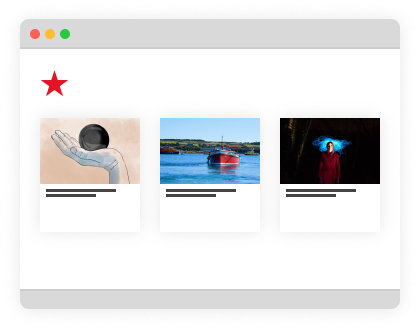
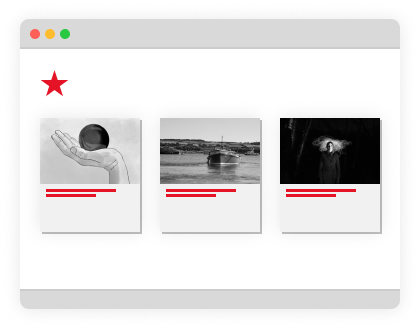
tweaks to roobottom-2006 theme

diff --git a/src/assets/static/css/roobottom-2006.css b/src/assets/static/css/roobottom-2006.css
@@ -27,7 +27,7 @@
   --c-link: var(--c-red);
   --c-link-hover: var(--c-red);
   --c-link-focus: var(--c-red);
-  --box-shadow: 0 0 10px rgba(0, 0, 0, 0.1);
+  --box-shadow: 8px 8px 0 rgba(0, 0, 0, 0.2);
   --border-radius: 0;
   --bullet: url(/sprites/bullet.svg);
   --c-site-header-background: transparent;
@@ -44,8 +44,8 @@
   --table-td-border: 1px solid var(--c-border);
   --table-padding: var(--space-xs);
   --table-shadow: none;
-  --card-background: white;
-  --card-cover-blend: normal;
+  --card-background: var(--c-tint);
+  --card-cover-blend: luminosity;
   --c-form-tint: var(--c-red);
   --c-form-focus: var(--c-red-40);
   --c-breadscrumbs-arrow: var(--c-red);
@@ -1386,7 +1386,7 @@ figcaption {
   position: relative;
   background-color: var(--card-background);
   color: var(--c-text);
-  box-shadow: 0 0 20px rgba(0, 0, 0, 0.1);
+  box-shadow: var(--box-shadow);
   height: 100%;
   display: flex;
   flex-direction: column;
@@ -2174,4 +2174,7 @@ h6 {
   background-position: 0 0;
   background-repeat: no-repeat;
   background-size: 26px;
+}
+.card-cover .card-link {
+  text-shadow: 1px 1px 0 black;
 }

diff --git a/src/assets/less/roobottom-2006/settings.less b/src/assets/less/roobottom-2006/settings.less
@@ -22,7 +22,7 @@
   --c-link-hover: var(--c-red);
   --c-link-focus: var(--c-red);
 
-  --box-shadow: 0 0 10px fade(black, 10%);
+  --box-shadow: 8px 8px 0 fade(black, 20%);
   --border-radius: 0;
   --bullet: ~"url(@{path-images}bullet.svg)";
 
@@ -56,8 +56,8 @@
   --table-shadow: none;
 
   //cards
-  --card-background: white;
-  --card-cover-blend: normal;
+  --card-background: var(--c-tint);
+  --card-cover-blend: luminosity;
 
   //form
   --c-form-tint: var(--c-red);

diff --git a/src/assets/static/css/roobottom-2018.css b/src/assets/static/css/roobottom-2018.css
@@ -1485,7 +1485,7 @@ figcaption {
   position: relative;
   background-color: var(--card-background);
   color: var(--c-text);
-  box-shadow: 0 0 20px rgba(0, 0, 0, 0.1);
+  box-shadow: var(--box-shadow);
   height: 100%;
   display: flex;
   flex-direction: column;

diff --git a/src/assets/static/css/roobottom-2021.css b/src/assets/static/css/roobottom-2021.css
@@ -1477,7 +1477,7 @@ figcaption {
   position: relative;
   background-color: var(--card-background);
   color: var(--c-text);
-  box-shadow: 0 0 20px rgba(0, 0, 0, 0.1);
+  box-shadow: var(--box-shadow);
   height: 100%;
   display: flex;
   flex-direction: column;

diff --git a/src/assets/static/css/roobottom-2022.css b/src/assets/static/css/roobottom-2022.css
@@ -1415,7 +1415,7 @@ figcaption {
   position: relative;
   background-color: var(--card-background);
   color: var(--c-text);
-  box-shadow: 0 0 20px rgba(0, 0, 0, 0.1);
+  box-shadow: var(--box-shadow);
   height: 100%;
   display: flex;
   flex-direction: column;

diff --git a/src/assets/less/components/card.less b/src/assets/less/components/card.less
@@ -5,7 +5,7 @@
   position: relative; 
   background-color: var(--card-background);
   color: var(--c-text);
-  box-shadow: 0 0 20px fade(black,10%);
+  box-shadow: var(--box-shadow);
   height: 100%;
   display: flex;
   flex-direction: column;

diff --git a/src/assets/less/roobottom-2006.less b/src/assets/less/roobottom-2006.less
@@ -28,3 +28,7 @@ h1, h2, h3, h4, h5, h6 {
   background-repeat: no-repeat;
   background-size: 26px;
 }
+
+.card-cover .card-link {
+  text-shadow: 1px 1px 0 black;
+}
